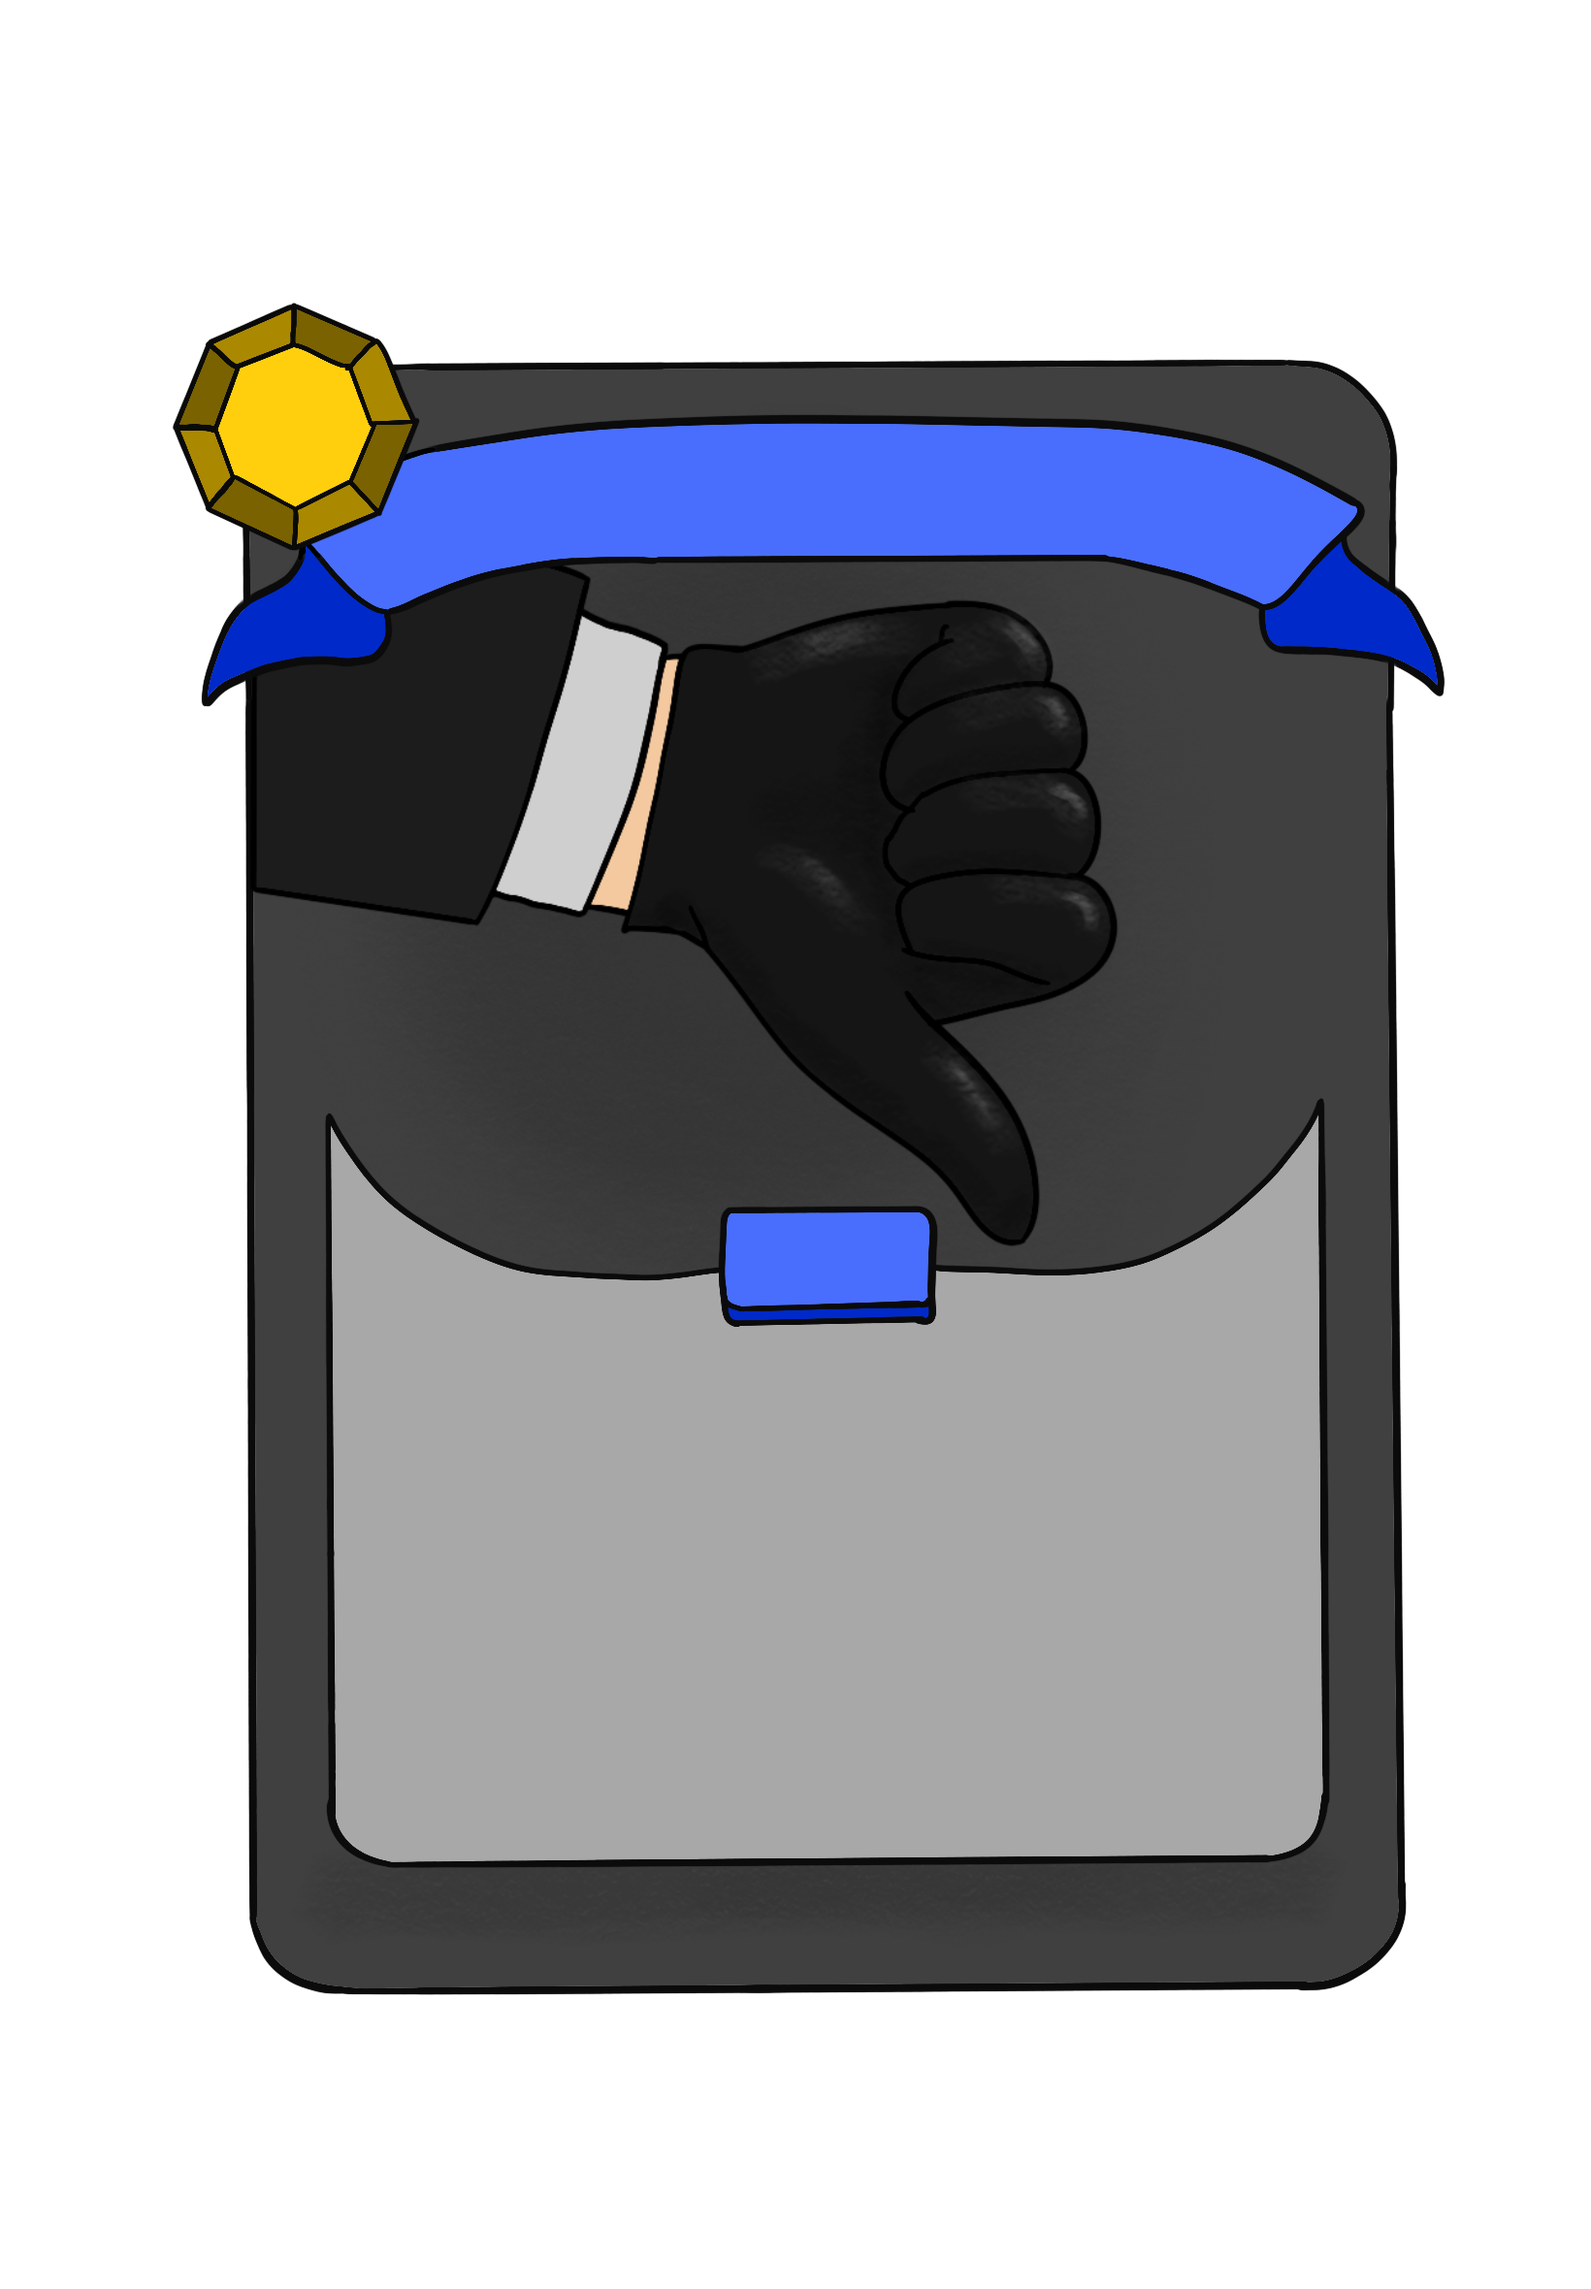
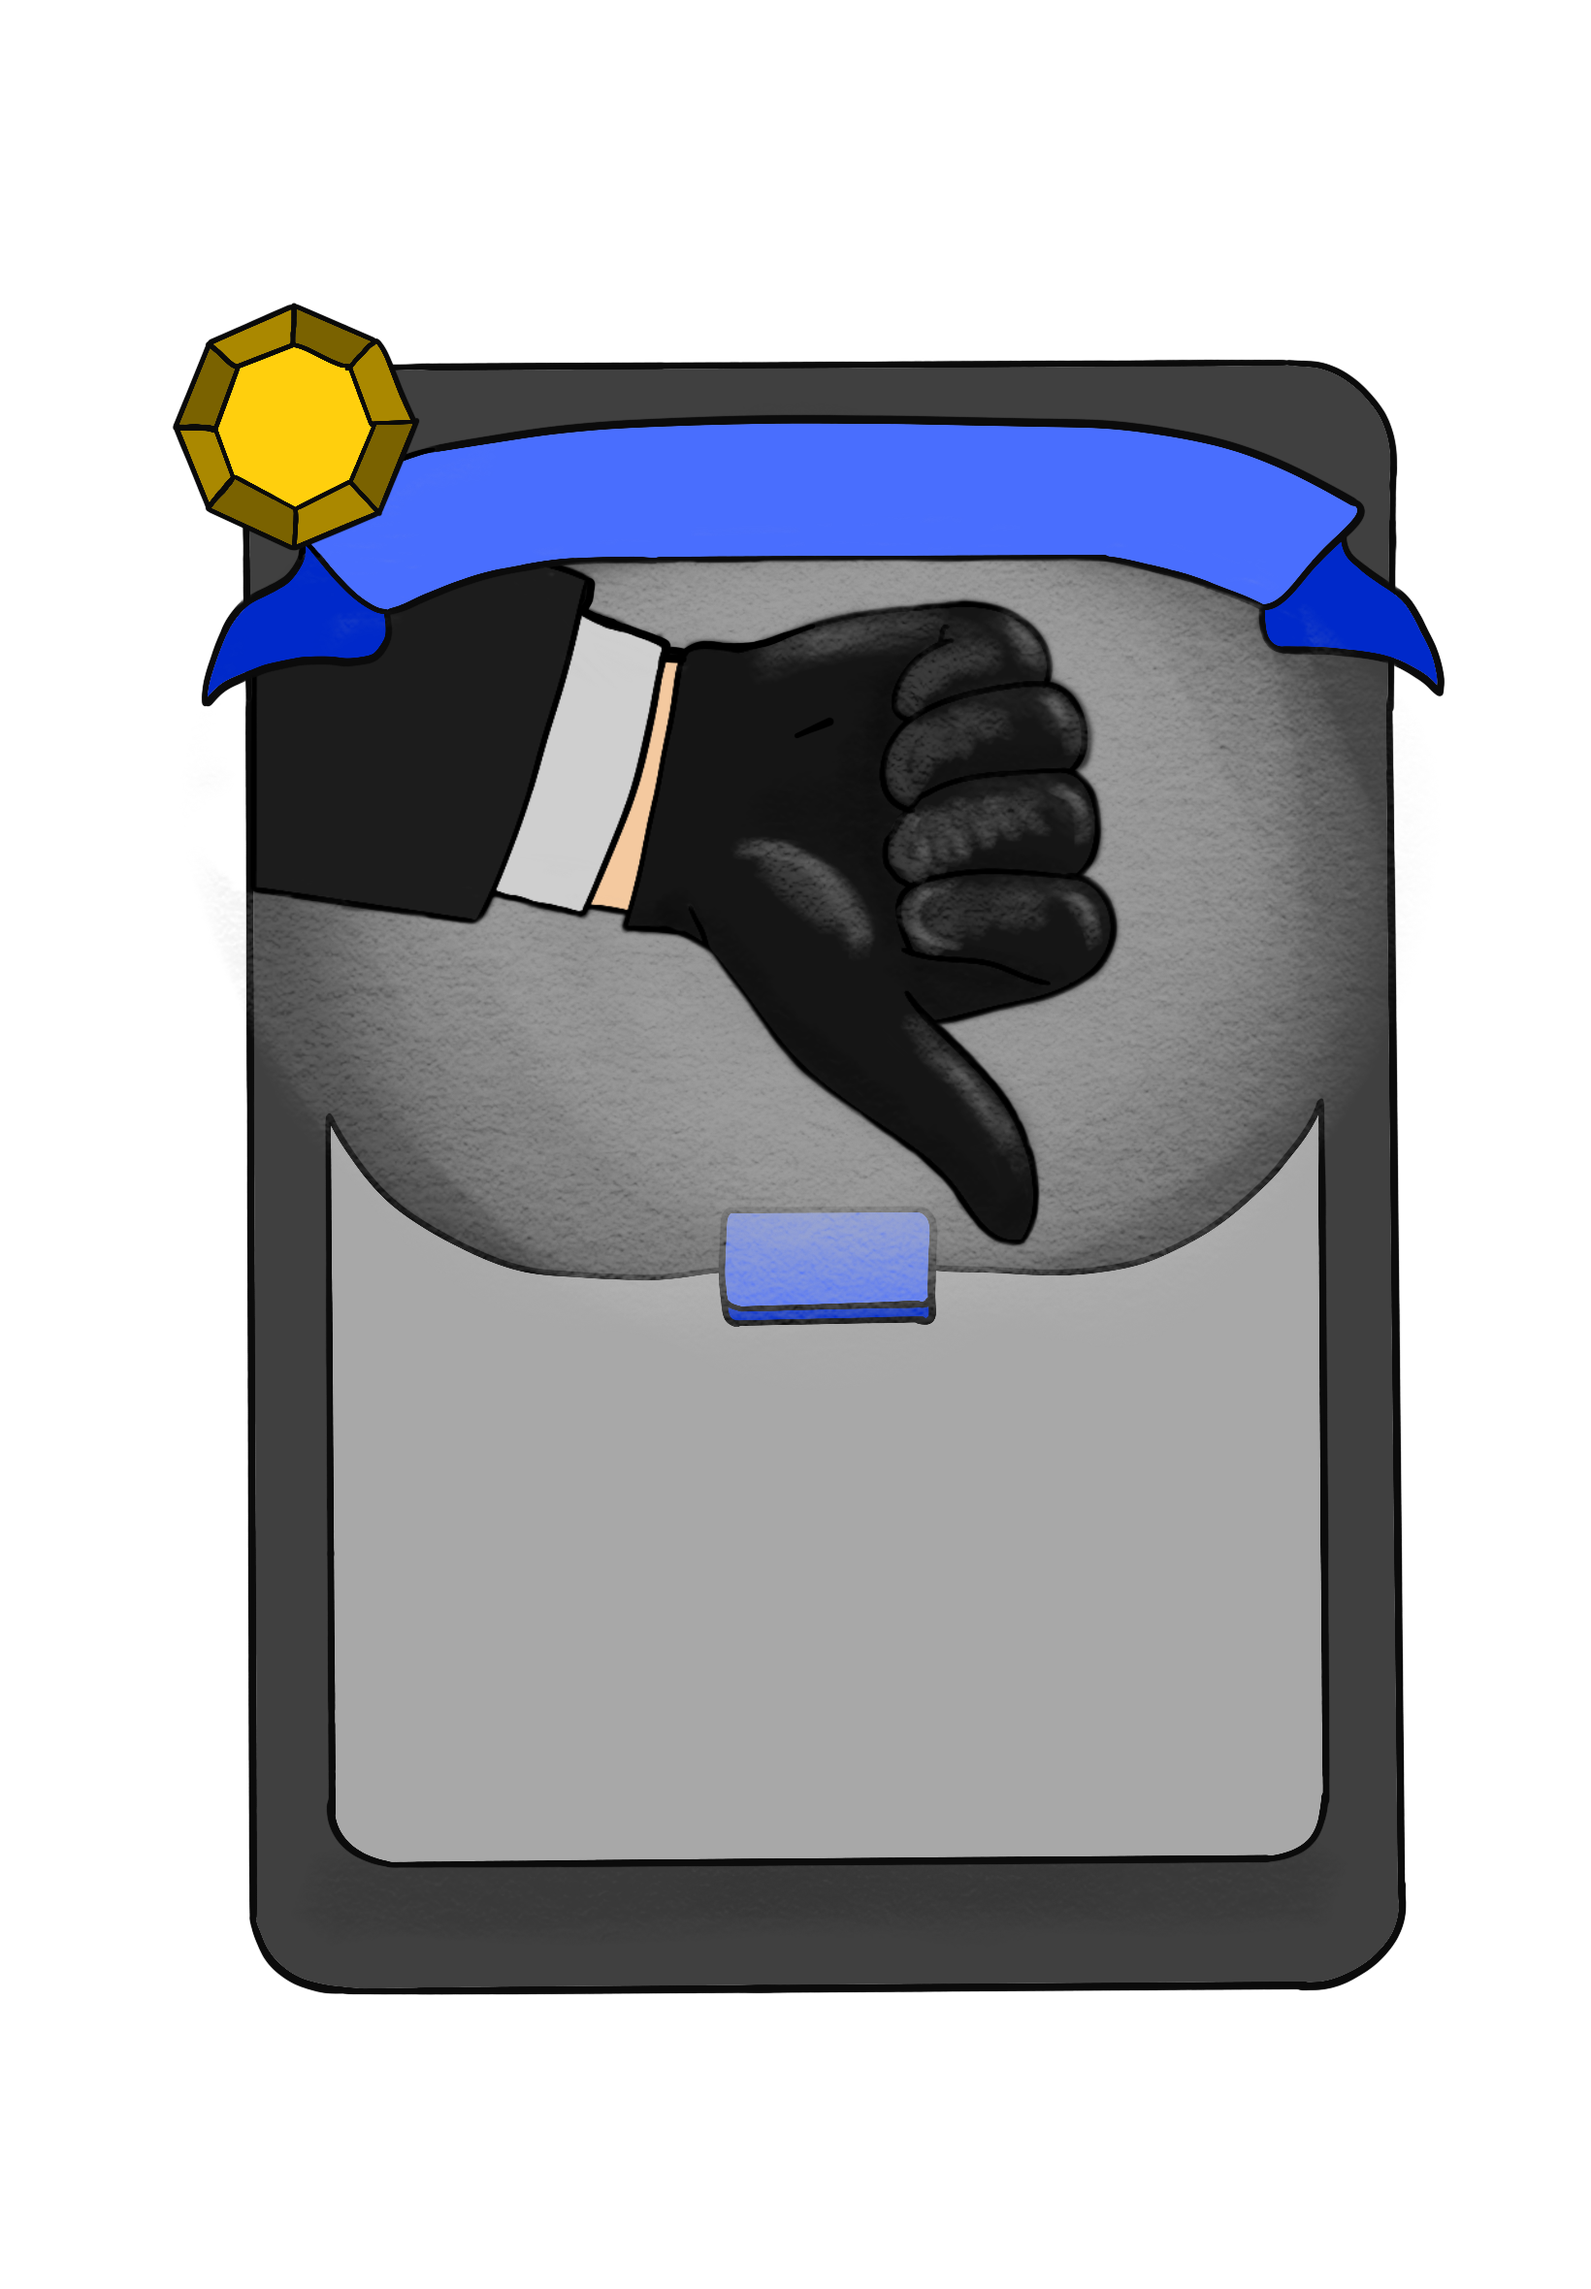
added new versions of driver cards

Changed region(s): [[0.1555, 0.2165, 0.8707, 0.5877]]

diff --git a/cardGen.py b/cardGen.py
@@ -117,10 +117,10 @@ cards = [ # art, name, type, energy, description
     ("./art/cards/driver/defend.png","Defend", "skill", 1,["Gain 1 $Block$"]),
     ("./art/cards/driver/strike.png","Strike", "attack", 1,["Deal 1 $Damage$"]),
     ("./art/cards/driver/defend.png","Defend", "skill", 1,["Gain 1 $Block$"]),
-    ("./art/cards/driver/supply_bag.png","Supply Bag", "skill", 1,["Give a player with", "space a random","$simple potion$"]),
+    # ("./art/cards/driver/supply_bag.png","Supply Bag", "skill", 1,["Give a player with", "space a random","$simple potion$"]),
     ("./art/cards/driver/not_for_me.png","Not For Me", "skill", 1,["You don't need to","$Drink$ next time"]),
-    ("./art/cards/driver/maybe_just_one.png","Maybe Just One", "skill", 0,["Gain 2 $energy$", "take a $sip$"]),
-    ("./art/cards/driver/wake_up_call.png","Wake Up Call", "skill", "X",["all players $Draw$", "X cards"]),
+    # ("./art/cards/driver/maybe_just_one.png","Maybe Just One", "skill", 0,["Gain 2 $energy$", "take a $sip$"]),
+    # ("./art/cards/driver/wake_up_call.png","Wake Up Call", "skill", "X",["all players $Draw$", "X cards"]),
     ("./art/cards/driver/carry.png","Carry", "skill", 1,["Give another player", "2 $Block$"]),
     ("./art/cards/driver/the_good_stuff.png","The Good Stuff", "skill", 2,["Give a player a","random $rare potion$","$exhaust$"]),
     ("./art/cards/driver/cherry_pick.png","Cherry Pick", "skill", 1,["$Discard$ any number", "of cards from your","$Draw Pile$"]),
